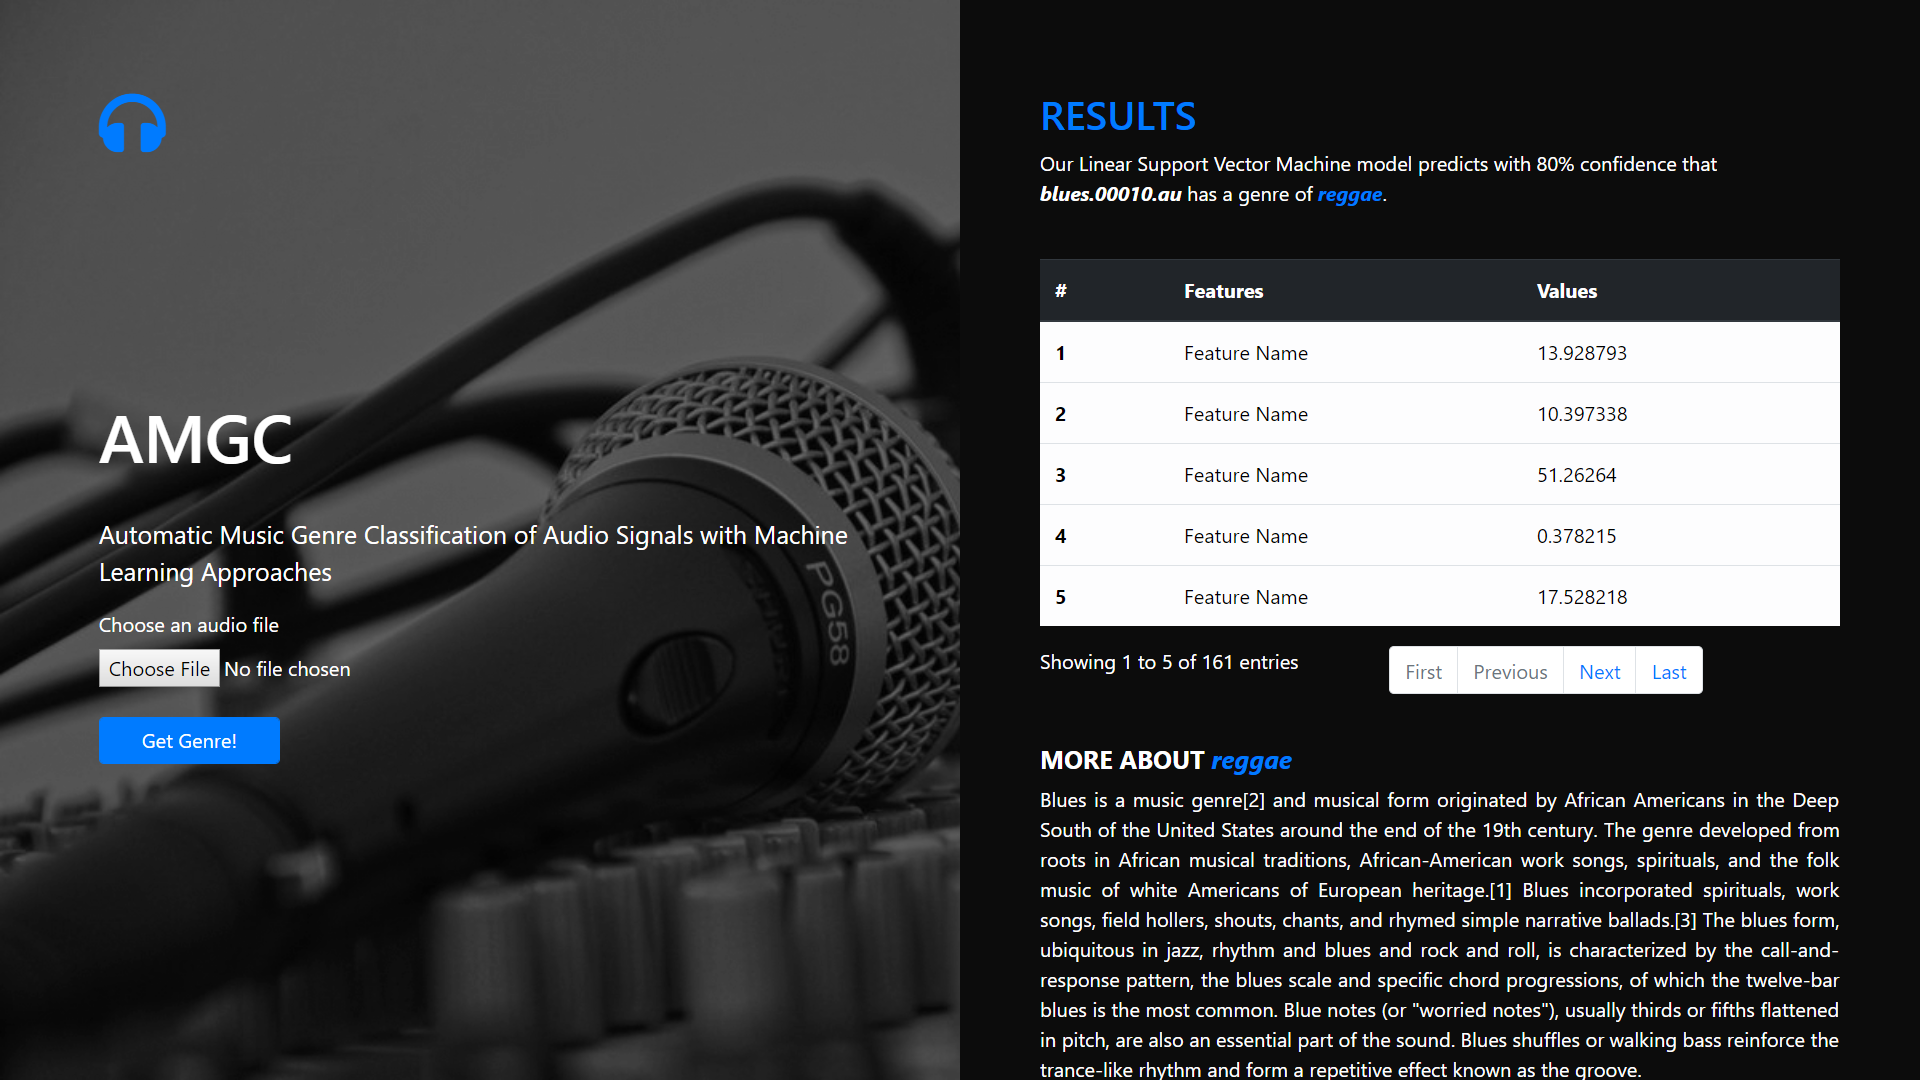
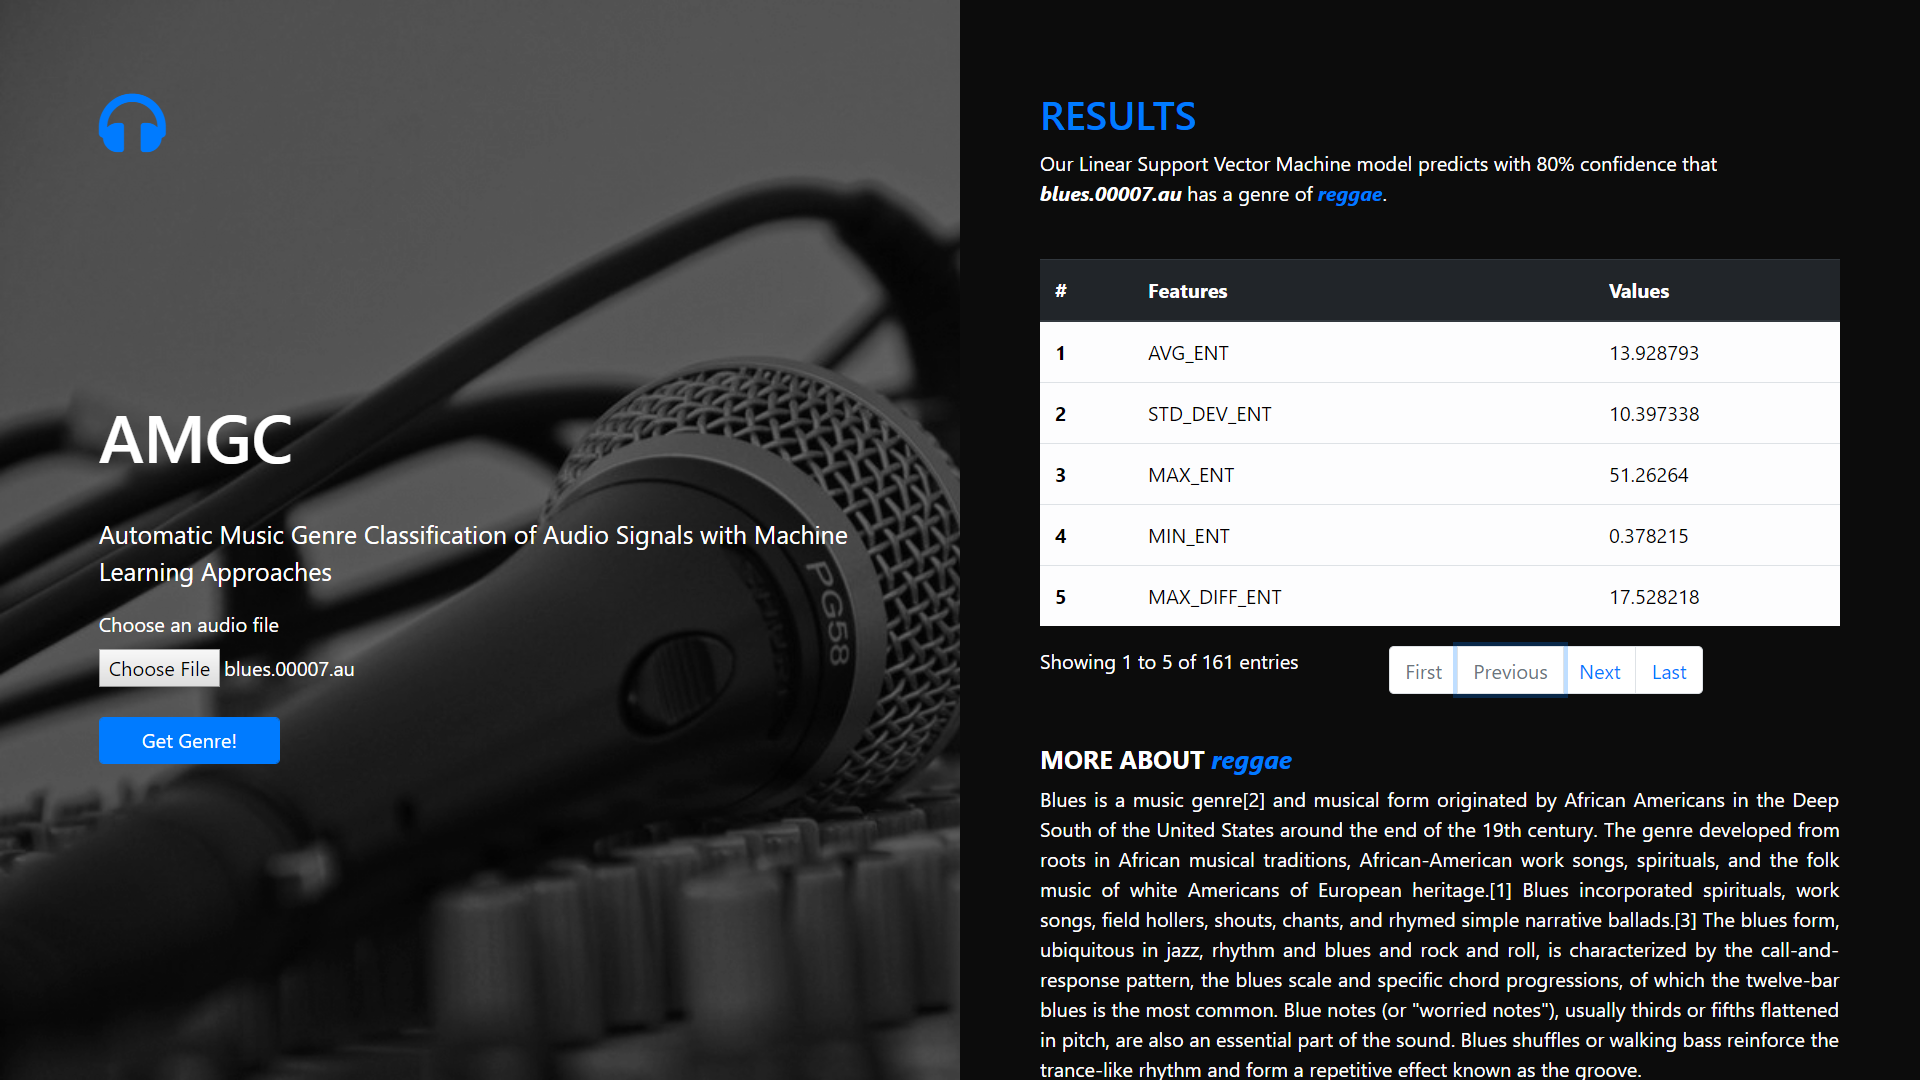
Updated UI data table with feature names, updated UI mock up

diff --git a/amgc-server/index.js b/amgc-server/index.js
@@ -69,8 +69,10 @@ app.post('/classify', function(req, res) {
 				audio_file_name: jsonResults.filename,
 				image: jsonResults.image,
 				label: jsonResults.label,
+				features: jsonResults.features,
 				values: jsonResults.values,
-				music_results: results
+				music_results: results,
+				confidence: jsonResults.confidence
 			})
 		}
 	})

diff --git a/classifiers/linear-svm-classifier/linear-svm-demo.py b/classifiers/linear-svm-classifier/linear-svm-demo.py
@@ -16,12 +16,12 @@ def main():
 
 	# Load audio
 	audioFileName = 'audio-files/' + sys.argv[1]
-	#audioFileName = '../../amgc-server/audio-files/' + sys.argv[1]
+	# audioFileName = '../../amgc-server/audio-files/' + sys.argv[1]
 	data, sr = librosa.load(audioFileName)
 
 	# Generate image of audio plot
 	imageName = 'public/images/' + sys.argv[1] + '.png'
-	#imageName = '../../amgc-server/public/images/' + sys.argv[1] + '.png'
+	# imageName = '../../amgc-server/public/images/' + sys.argv[1] + '.png'
 	py.figure()
 	py.plot(data)
 	py.title('Time Domain Signal of ' + sys.argv[1])
@@ -34,12 +34,19 @@ def main():
 
 	# Load features and labels
 	trainFileName = '../features/combined.txt'
-	#trainFileName = '../../features/combined.txt'
+	# trainFileName = '../../features/combined.txt'
 	with open(trainFileName, 'r') as f:
 		X = f.readlines()
 	X = [x.strip().split(',') for x in X]
 	y = np.array([genres.index(x.pop()) for x in X])
 	X = np.array(X, dtype=float)
+
+	# Load feature name
+	featuresNameFileName = '../features/features-name.txt'
+	# featuresNameFileName = '../../features/features-name.txt'
+	with open(featuresNameFileName, 'r') as f:
+		N = f.readlines()
+	N = [n.strip() for n in N]
 
 	# Train classifier
 	clf = sklearn.svm.SVC(kernel='linear', C=1.0)
@@ -54,7 +61,9 @@ def main():
 		'filename': sys.argv[1],
 		'image': sys.argv[1] + '.png',
 		'label': genres[label],
-		'values': list(test)
+		'features': N,
+		'values': list(test),
+		'confidence': 80
 	}
 	print(json.dumps(jsonResult))
 
